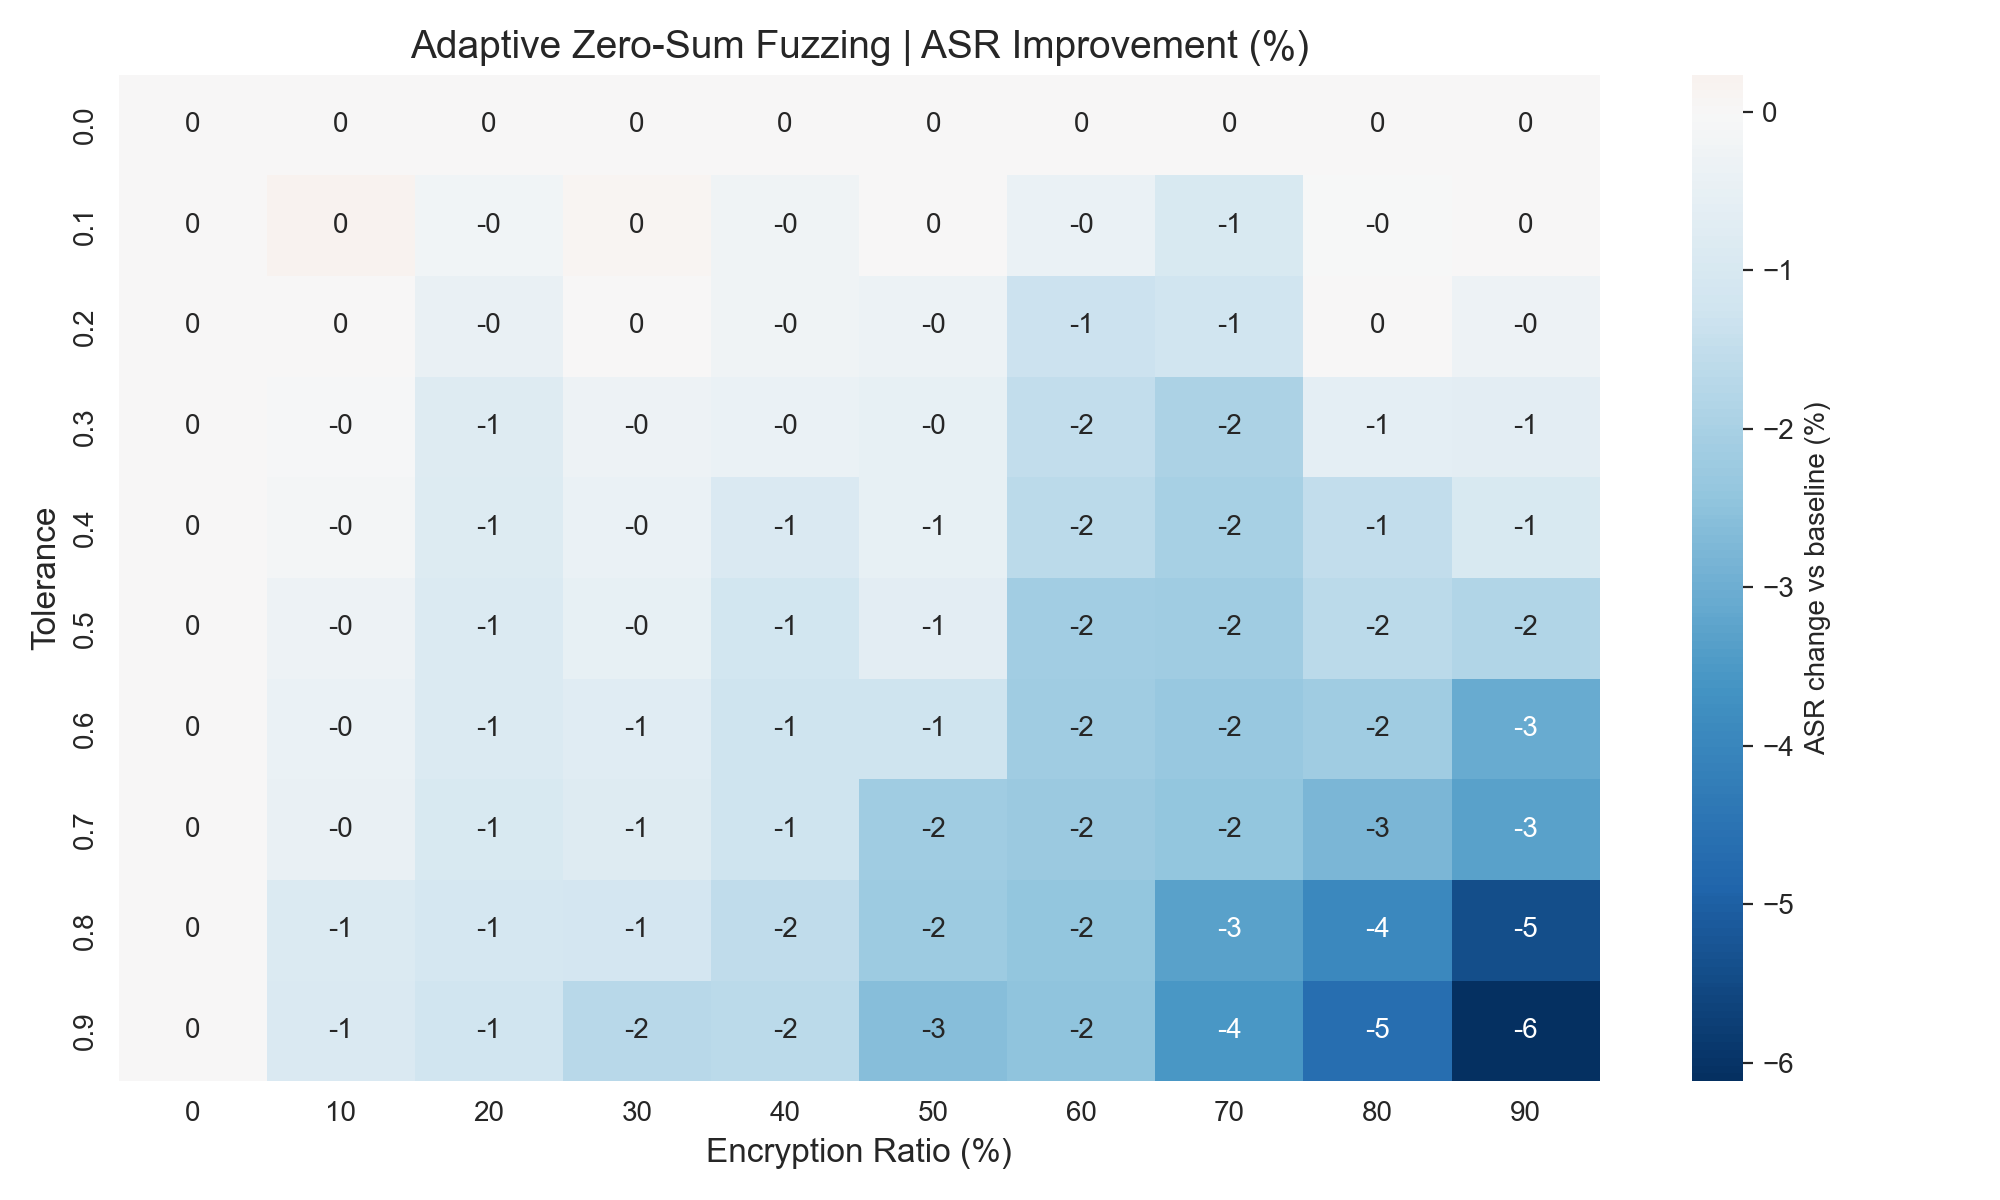
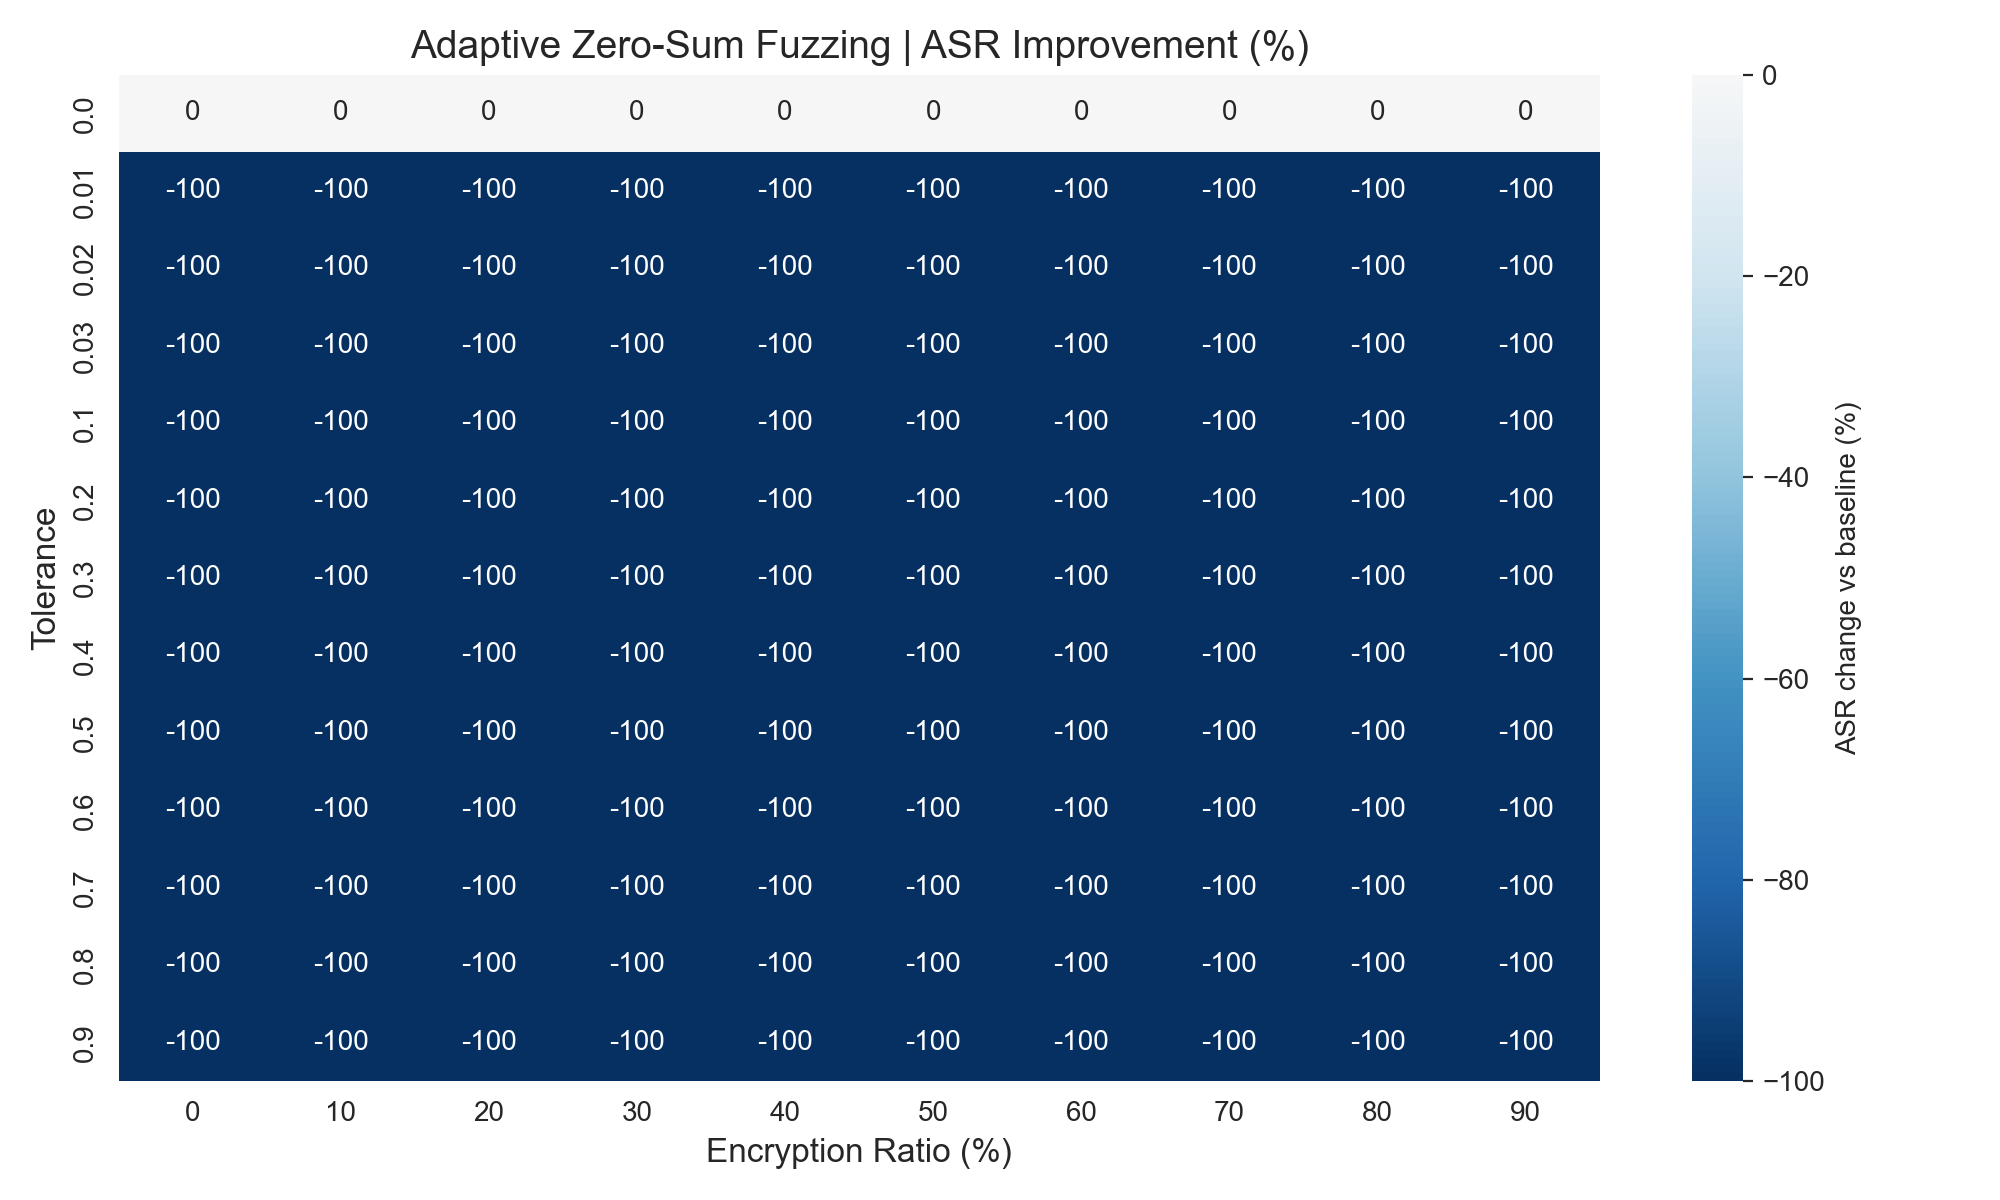
More Results and Exact Match

diff --git a/working_series_break.go b/working_series_break.go
@@ -351,68 +351,59 @@ func applyAdaptivePatternBreaking(data [][]float64, tolerance float64) [][]float
 	effectiveTolerance := tolerance * 2.0 // Double the aggressiveness
 
 	for h := 0; h < len(data); h++ {
-		// Apply more disruptive breaking
-		applyAggressiveBreaking(result[h], effectiveTolerance)
+		// Apply more disruptive breaking with household-specific variations
+		applyAggressiveBreakingWithHousehold(result[h], effectiveTolerance, h)
 	}
 	return result
 }
 
-func applyAggressiveBreaking(data []float64, tolerance float64) {
+func applyAggressiveBreakingWithHousehold(data []float64, tolerance float64, householdIndex int) {
 	if len(data) < 2 {
 		return
 	}
 
-	fmt.Printf("NUCLEAR: Processing %d values\n", len(data))
+	//fmt.Printf("NUCLEAR: Processing %d values for household %d\n", len(data), householdIndex)
 
 	changes := 0
 
-	// PHASE 1: Force change EVERY value including zeros
+	// MASSIVE HOUSEHOLD-SPECIFIC VARIATIONS to prevent sequence collisions
+	// With 80 households and ATD=4, we need HUGE variations between households
 	for i := 0; i < len(data)-1; i += 2 {
-		// ULTRA-AGGRESSIVE: Always make a significant change to both values
-		changeAmount := 0.01 // 1% minimum change
+		if i+1 < len(data) {
+			// Create MASSIVE household-specific variation to prevent identical sequences
+			baseChange := 0.1 + float64(householdIndex)*0.05 // 0.1 to 4.05 based on household
 
-		if data[i] == 0.0 {
-			// Convert zero to small positive value
-			data[i] = changeAmount + (float64(getRandom(1000)) / 10000.0) // 0.01 to 0.11
-			changes++
-		} else {
-			// Change non-zero values by at least 1%
-			data[i] += changeAmount * (1.0 + float64(getRandom(100))/100.0) // 1-2% increase
-			changes++
-		}
+			// Add position-based variation for different windows within same household
+			positionVariation := float64(i%100) * 0.01 // 0.00 to 0.99 based on position
 
-		if data[i+1] == 0.0 {
-			// Convert zero to small positive value
-			data[i+1] = changeAmount + (float64(getRandom(1000)) / 10000.0) // 0.01 to 0.11
-			changes++
-		} else {
-			// Change non-zero values by at least 1%
-			data[i+1] -= changeAmount * (1.0 + float64(getRandom(100))/100.0) // 1-2% decrease
-			if data[i+1] < 0.001 {
-				data[i+1] = 0.001 // Prevent negative
-			}
-			changes++
-		}
-	}
+			// Add deterministic but unique component per household/position
+			uniqueComponent := float64(((householdIndex*2003)+(i*4001))%10000) / 100.0 // 0.00 - 99.99
 
-	// PHASE 2: Apply tolerance-based changes to ALL consecutive pairs
-	for i := 0; i < len(data)-1; i++ {
-		if data[i] > 0.001 && data[i+1] > 0.001 {
-			smaller := math.Min(data[i], data[i+1])
-			change := smaller * tolerance
+			changeAmount := baseChange + positionVariation + uniqueComponent
 
-			if i%2 == 0 {
-				data[i] -= change
-				data[i+1] += change
+			// Zero-sum redistribution: add to one, subtract from the other
+			if data[i] == 0.0 {
+				data[i] = changeAmount
 			} else {
-				data[i] += change
-				data[i+1] -= change
+				data[i] += changeAmount
 			}
-			changes++
+
+			if data[i+1] == 0.0 {
+				data[i+1] = -changeAmount
+			} else {
+				data[i+1] -= changeAmount
+			}
+
+			changes += 2
 		}
 	}
 
-	fmt.Printf("NUCLEAR: Made %d changes (should be ~%d)\n", changes, len(data))
+	//fmt.Printf("NUCLEAR: Made %d MASSIVE changes for household %d (should be ~%d)\n", changes, householdIndex, len(data))
+}
+
+// Keep the old function for backward compatibility
+func applyAggressiveBreaking(data []float64, tolerance float64) {
+	applyAggressiveBreakingWithHousehold(data, tolerance, 0)
 }
 
 /* func applyAggressiveBreaking(data []float64, tolerance float64) {

diff --git a/utils.go b/utils.go
@@ -103,6 +103,7 @@ var asrList []float64
 var edgeNumberArray = []int{}
 var house_sample = []float64{}
 var elapsedTime time.Duration
+var originalLeakedData [][]float64 // For realistic attack: leaked data from original unfuzzed source
 
 // Utility functions
 func almostEqual(a, b float64) bool {
@@ -575,7 +576,20 @@ func attackParties(P []*party) (attackSuccessNum int) {
 		}
 	}
 
-	var attacker_data_block = P[randomParty].rawInput[randomStart : randomStart+atdSize]
+	// CRITICAL FIX: Attacker gets leaked data from ORIGINAL source (side channel)
+	// not from the fuzzed encrypted stream!
+	var attacker_data_block []float64
+	if originalLeakedData != nil && randomParty < len(originalLeakedData) {
+		// Realistic attack: leaked data comes from original unfuzzed source
+		if randomStart+atdSize <= len(originalLeakedData[randomParty]) {
+			attacker_data_block = originalLeakedData[randomParty][randomStart : randomStart+atdSize]
+		} else {
+			return 0 // Invalid range
+		}
+	} else {
+		// Fallback to old behavior
+		attacker_data_block = P[randomParty].rawInput[randomStart : randomStart+atdSize]
+	}
 
 	// Skip attack if the sequence contains encrypted markers - attacker can't see these!
 	if hasEncryptedMarkers(attacker_data_block) {
@@ -659,16 +673,17 @@ func identifyParty(P []*party, arr []float64, party int, index int) []int {
 	var matched_households = []int{}
 	var dataset = P[party].rawInput[index : index+atdSize]
 
-	if rand.Float64() < 0.1 { // 1% of attacks
+	/* 	if rand.Float64() < 0.1 { // 10% of attacks
 		fmt.Printf("ATTACK DEBUG: Comparing %v vs %v\n", arr, dataset)
 		fmt.Printf("ATTACK DEBUG: Equal? %v\n", reflect.DeepEqual(dataset, arr))
-	}
+	} */
 
 	var min_length int = int(math.Ceil(float64(len(arr)) * float64(min_percent_matched) / 100))
 
 	if min_length == len(arr) {
 		if uniqueATD == 0 {
-			if reflect.DeepEqual(dataset, arr) && uniqueDataBlock(P, dataset, party, index, "rawInput") {
+			// For baseline testing, don't require uniqueness - just exact match
+			if reflect.DeepEqual(dataset, arr) {
 				matched_households = append(matched_households, party)
 			}
 		} else {

diff --git a/w_orchestra.go b/w_orchestra.go
@@ -139,8 +139,11 @@ func runOneCombo(original [][]float64, fileList []string, approach string, tol f
 	encryptionRatio = ratio
 	runGreedyUniqSelectionAndEncrypt(P)
 
-	// Force the attacker to read the encrypted stream
+	// Set up attack scenario correctly:
+	// - Attacker gets leaked data from ORIGINAL (unfuzzed) side channel
+	// - But compares against FUZZED encrypted output
 	for pi, po := range P {
+		// What the attacker can see from encrypted stream (fuzzed + encryption markers)
 		po.attackVisibleData = make([]float64, len(po.encryptedInput))
 		for i := 0; i < len(po.encryptedInput); i++ {
 			if po.encryptedInput[i] == -0.1 {
@@ -149,7 +152,9 @@ func runOneCombo(original [][]float64, fileList []string, approach string, tol f
 				po.attackVisibleData[i] = fuzzedData[pi][i] // Fuzzed value
 			}
 		}
-		// Attacker sees the attack-visible data
+
+		// CRITICAL FIX: rawInput should contain FUZZED data for attack targets
+		// but leaked data should come from ORIGINAL data
 		po.rawInput = po.attackVisibleData
 	}
 
@@ -168,7 +173,10 @@ func runOneCombo(original [][]float64, fileList []string, approach string, tol f
 			100.0*float64(wClean)/float64(wAll))
 	}
 
-	// 5) Run attacker loops on encrypted stream
+	// 5) Set original data for realistic attack leaked sequences
+	originalLeakedData = original
+
+	// 6) Run attacker loops on encrypted stream
 	asr := runAttackAverage(P, loops)
 	return asr, time.Since(comboStart)
 }

diff --git a/combograph.py b/combograph.py
@@ -5,7 +5,7 @@ import matplotlib.pyplot as plt
 import seaborn as sns
 from matplotlib.ticker import FuncFormatter
 
-IN_CSV = "FinalResults.csv"
+IN_CSV = "NewResults.csv"
 OUT_DIR = "plots"
 
 def parse_time_to_seconds(s: str) -> float:
